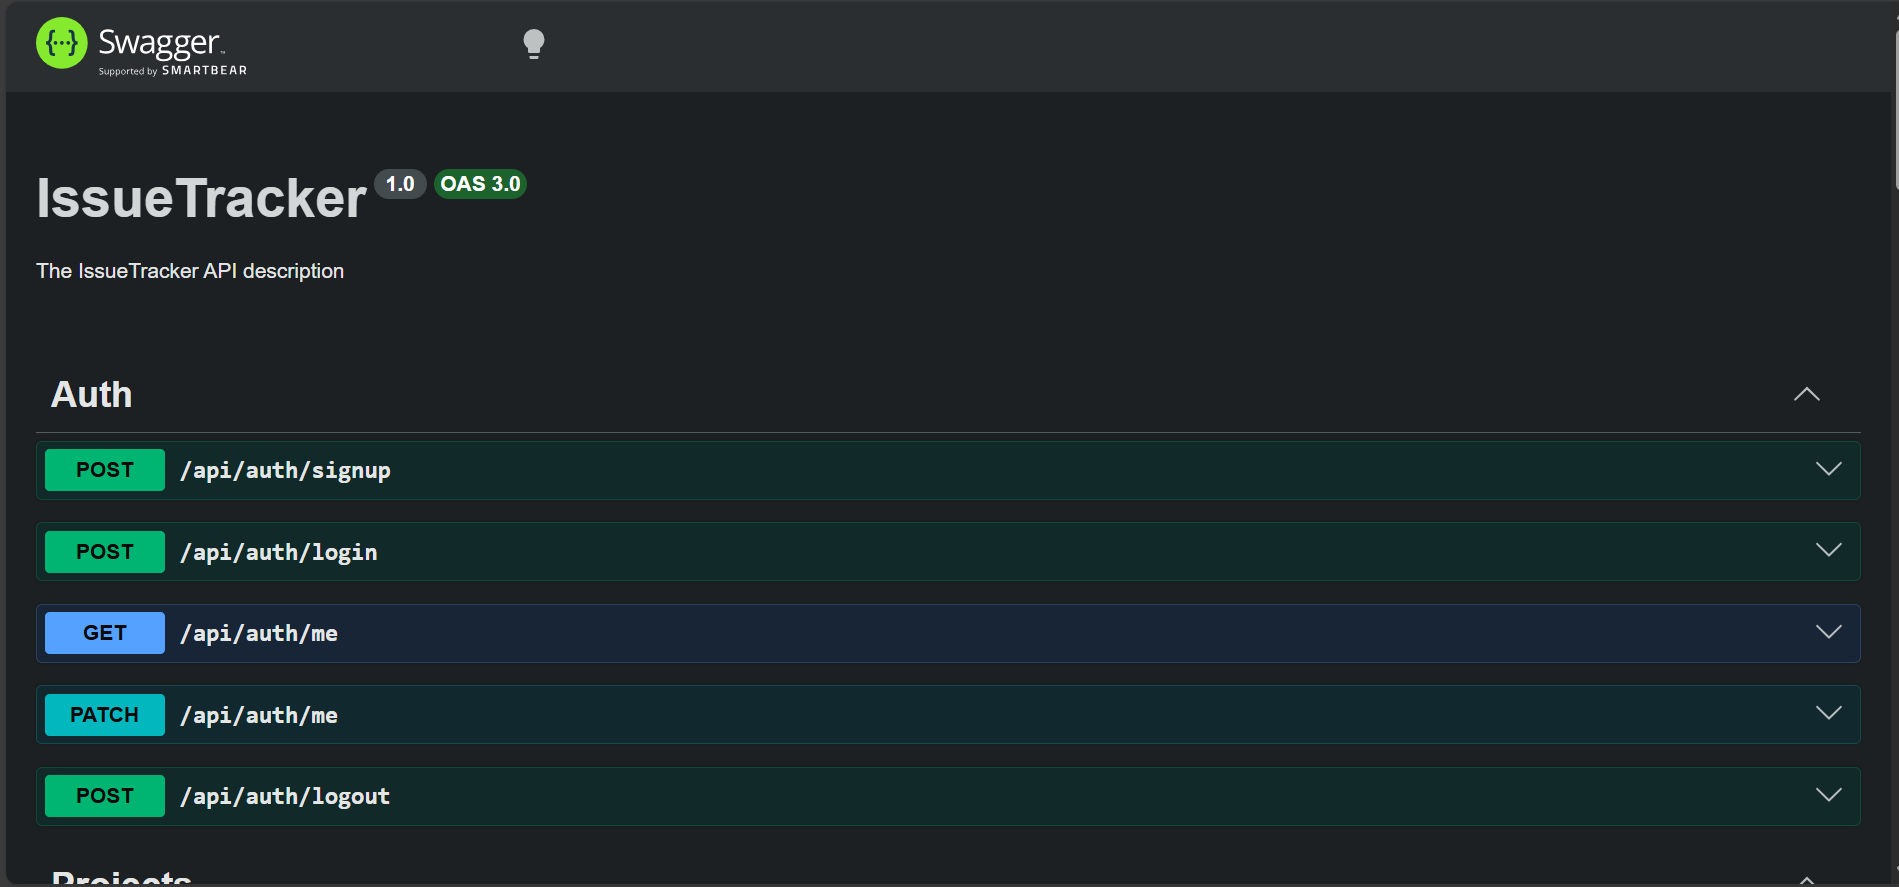
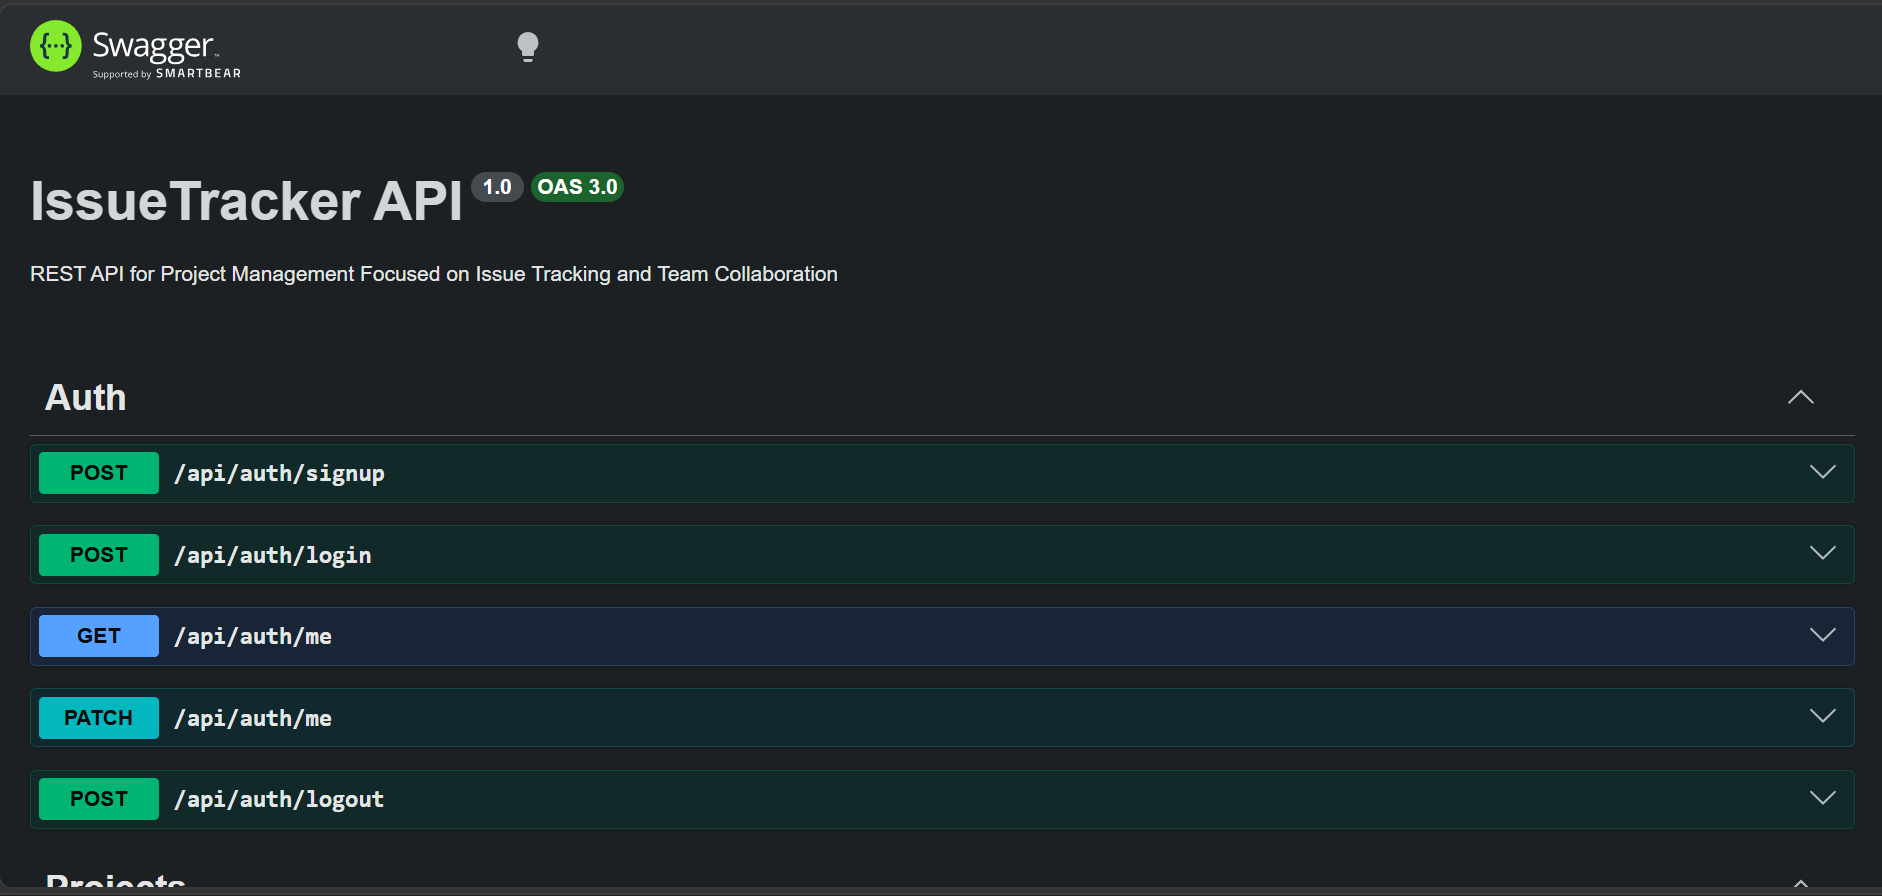
update readme and documentation

diff --git a/gateway/src/main.ts b/gateway/src/main.ts
@@ -42,8 +42,8 @@ async function bootstrap() {
   );
 
   const config = new DocumentBuilder()
-    .setTitle('IssueTracker')
-    .setDescription('The IssueTracker API description')
+    .setTitle('IssueTracker API')
+    .setDescription('REST API for Project Management Focused on Issue Tracking and Team Collaboration')
     .setVersion('1.0')
     .build();
 

diff --git a/README.md b/README.md
@@ -1,4 +1,4 @@
-# 📌 IssueTracker API - API for Simple Project Management Focused on Issue Tracking and Team Collaboration (Microservices)
+# 📌 IssueTracker API - REST API for Project Management Focused on Issue Tracking and Team Collaboration (Microservices)
 
 ![Gambar](issuetracker-api.png)
 
@@ -15,7 +15,7 @@
 
 ## ✨ Description
 
-IssueTracker API is an API for simple project management focused on issue tracking and team collaboration.
+IssueTracker API is a REST API for project management focused on issue tracking and team collaboration.
 Users can create projects, manage issues with different statuses and priorities, invite team members, and collaborate through comments.
 
 This project is a NestJS-based API implementation created as a backend-oriented version of a full-stack IssueTracker originally built with Next.js.
@@ -80,7 +80,7 @@ The full-stack Next.js version is available here: https://github.com/rckyrcky/is
 
 - Cursor-based pagination for scalable data fetching
 
-- Schema validation and automated testing
+- Schema validation (Zod), testing (Jest), and logging (Winston)
 
 ## 🛠️ Architecture
 
@@ -109,7 +109,7 @@ The full-stack Next.js version is available here: https://github.com/rckyrcky/is
 
 3.  Set up environment variables
 
-    Create a .env file based on .env.example and fill in the required values. Each service may have its own environment configuration. Refer to each service's .env.example if needed.
+    Create an .env file based on .env.example and fill in the required values. Each service may have its own environment configuration. Refer to each service's .env.example if needed.
 
 4.  Start infrastructure (PostgreSQL and RabbitMQ)
 
@@ -135,7 +135,7 @@ The full-stack Next.js version is available here: https://github.com/rckyrcky/is
     npm run start:all
     ```
 
-8.  Basic API documentation is available via Swagger for exploring available endpoints
+8.  Basic API documentation is available via Swagger UI for exploring available endpoints
 
     http://localhost:3000/docs
 
@@ -143,6 +143,6 @@ The full-stack Next.js version is available here: https://github.com/rckyrcky/is
 
 This project is licensed under the MIT License - see the [LICENSE](LICENSE) file for details.
 
-[Back to top](README.md#-issuetracker-api---api-for-simple-project-management-focused-on-issue-tracking-and-team-collaboration-microservices)
+[Back to top](README.md#-issuetracker-api---rest-api-for-project-management-focused-on-issue-tracking-and-team-collaboration-microservices)
 
 © 2026 ricky | [ricky.rf.gd](https://ricky.rf.gd)